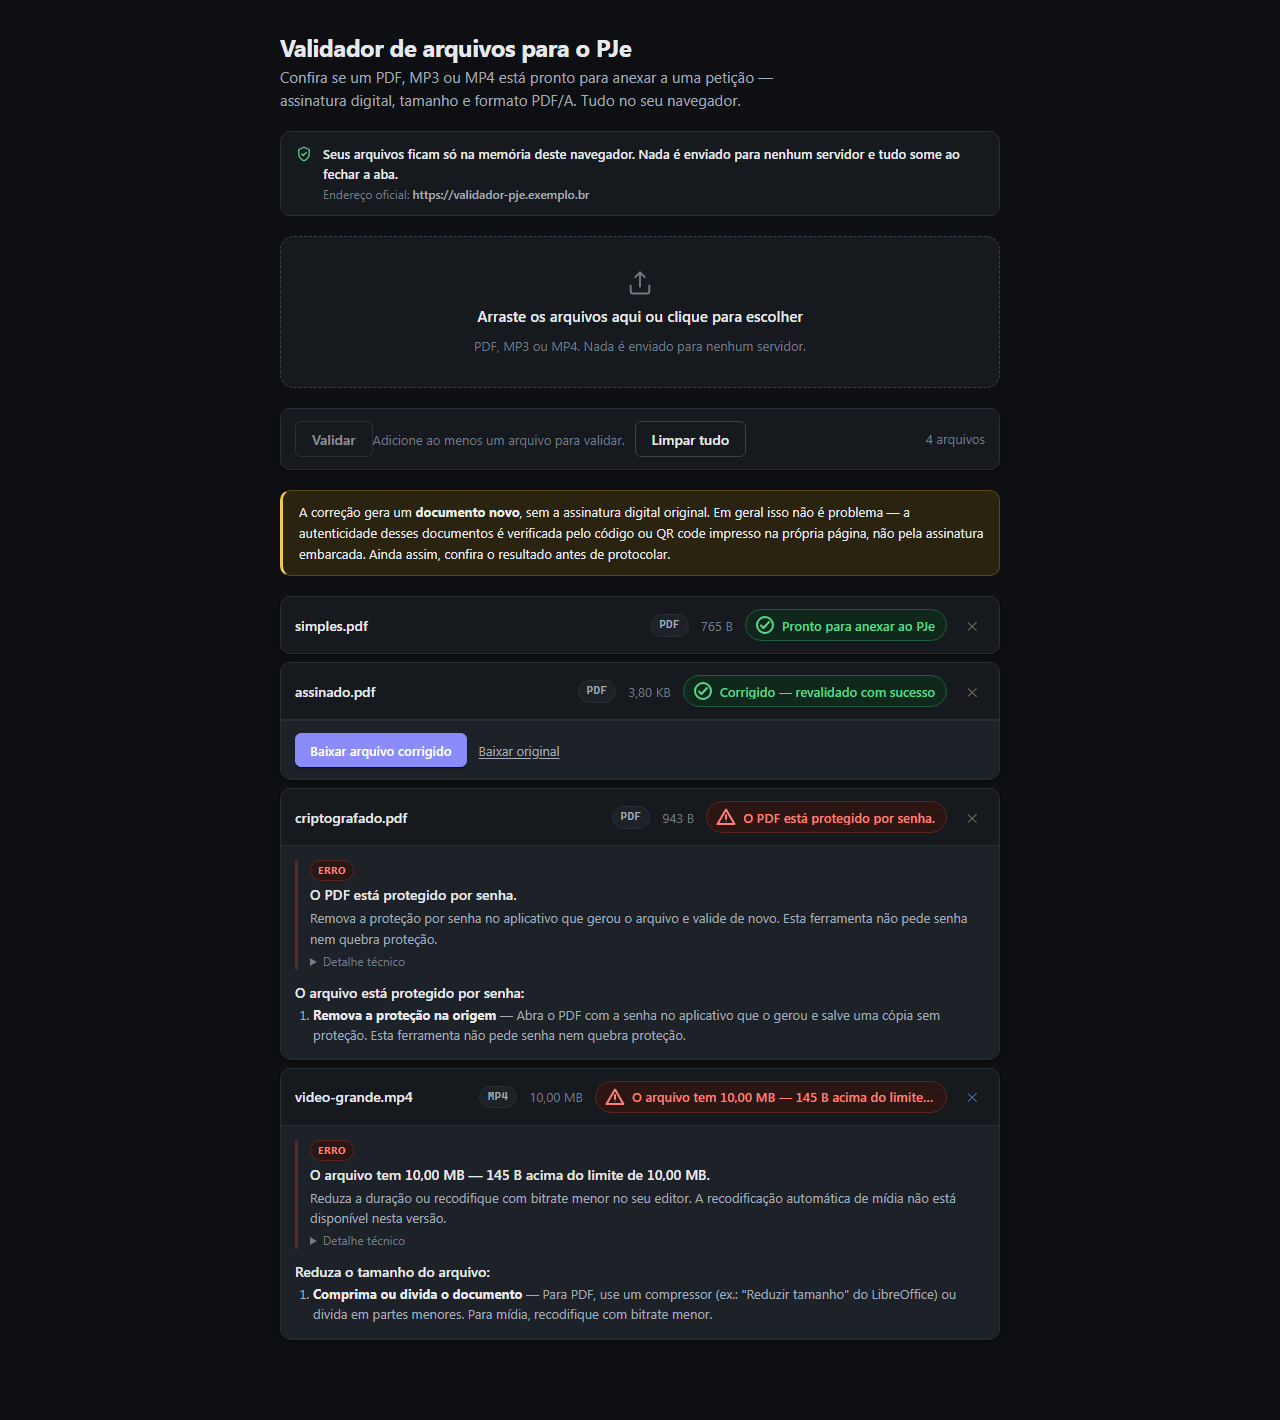
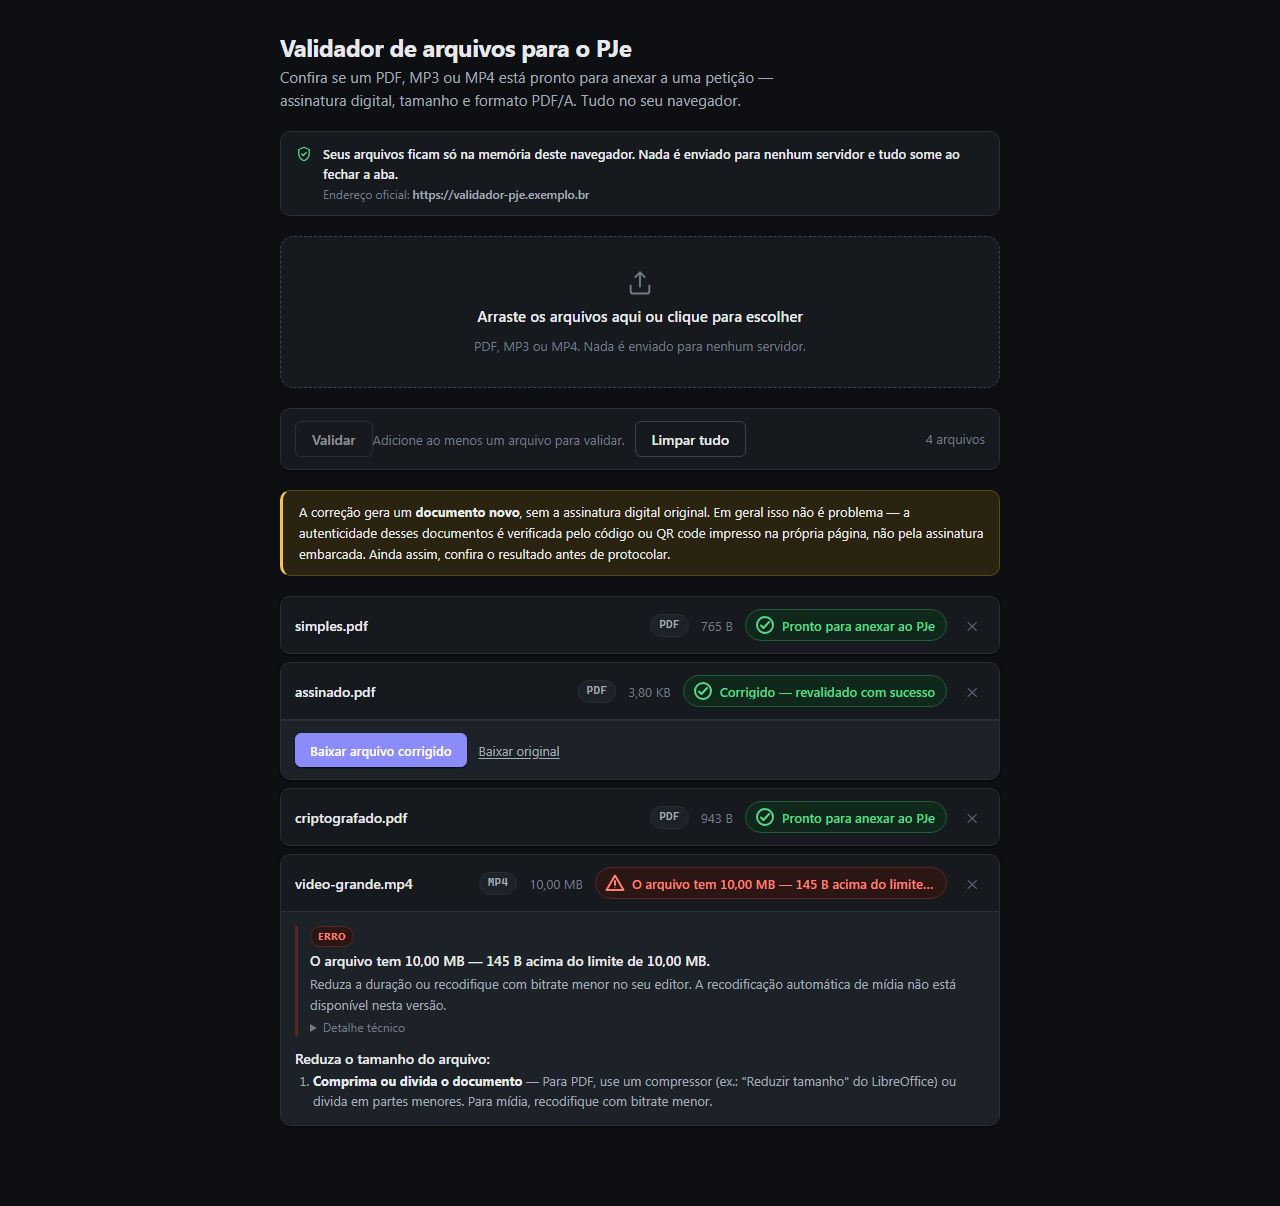
fix: PDF com restrições (CTPS Digital, gov.br) não é mais "protegido por senha"
Documentos oficiais brasileiros costumam ter /Encrypt só com senha de dono /
restrições — abrem sem senha no navegador e no Acrobat. O pdf-lib recusava
qualquer /Encrypt, gerando o falso positivo "O PDF está protegido por senha".

- carregarPdf: em EncryptedPDFError, tenta PDFDocument.load(..., {ignoreEncryption:true}).
  Se a estrutura abre -> { ok:true, encriptado:true }. Só ARQUIVO_CRIPTOGRAFADO
  quando NEM assim abre (senha real / estrutura quebrada).
- validarArquivo: PDFA_CRIPTOGRAFADO saiu do conjunto NAO_CORRIGIVEL — um PDF
  com restrições que abre é corrigível (o Ghostscript remove a cifra ao reescrever).
- corrigirArquivo: só ARQUIVO_CRIPTOGRAFADO bloqueia; PDFA_CRIPTOGRAFADO vai ao worker.
- argumentosGs: -sPDFPassword= (vazio) em todas as estratégias — abre PDFs de
  restrições e a saída já sai sem cifra.
- fixture nova assinado-criptografado.pdf (caso CTPS Digital: assinado + /Encrypt).
- 200 unit + 65 e2e + 7 bundle verdes.

Changed region(s): [[0.2188, 0.2148, 0.7812, 0.7363], [0.2188, 0.767, 0.75, 0.9511], [0.2188, 0.0307, 0.75, 0.1841]]

diff --git a/scripts/gerar-fixtures.ts b/scripts/gerar-fixtures.ts
@@ -104,12 +104,14 @@ function pdfSimples(texto = 'Documento ficticio simples. Sem assinatura. Sem PDF
   return b.build({ root: catalogo });
 }
 
-function pdfAssinado(id: CertAutoassinado, comDocMDP = false): Uint8Array {
+function pdfAssinado(id: CertAutoassinado, opts: { comDocMDP?: boolean; comEncrypt?: boolean } = {}): Uint8Array {
+  const { comDocMDP = false, comEncrypt = false } = opts;
   const b = new PdfBuilder();
   const sigContents = assinaturaCmsHex(id);
   const sig = b.reservar();
   const campo = b.reservar();
   const acroform = b.reservar();
+  const enc = comEncrypt ? b.reservar() : null;
 
   const permsRef = comDocMDP ? b.reservar() : null;
   const catalogoExtra =
@@ -139,7 +141,22 @@ function pdfAssinado(id: CertAutoassinado, comDocMDP = false): Uint8Array {
       `<< /DocMDP << /Type /TransformParams /P 2 /V /1.2 >> >>`,
     );
   }
-  return b.build({ root: catalogo });
+  if (enc !== null) {
+    b.colocar(
+      enc,
+      `<< /Filter /Standard /V 2 /R 3 /Length 128 /P -3904 ` +
+        `/O <${'41'.repeat(32)}> /U <${'42'.repeat(32)}> >>`,
+    );
+  }
+  return b.build({
+    root: catalogo,
+    ...(enc !== null
+      ? {
+          trailerExtra:
+            `/Encrypt ${enc} 0 R /ID [ <31323334353637383930313233343536> <31323334353637383930313233343536> ]`,
+        }
+      : {}),
+  });
 }
 
 /** PDF limpo (sem AcroForm/assinatura), com o texto exato pedido. Simula o que
@@ -276,7 +293,9 @@ function mp4(payloadMdat: Buffer): Uint8Array {
 
 async function assertCarregaNoPdfLib(nome: string, bytes: Uint8Array): Promise<void> {
   try {
-    await PDFDocument.load(bytes, { updateMetadata: false });
+    // ignoreEncryption: as fixtures com /Encrypt de restrições abrem assim
+    // (é o que `carregarPdf` faz).
+    await PDFDocument.load(bytes, { updateMetadata: false, ignoreEncryption: true });
   } catch (e) {
     throw new Error(`fixture ${nome} deveria carregar no pdf-lib mas falhou: ${(e as Error).message}`);
   }
@@ -295,7 +314,9 @@ export async function gerarTodas(): Promise<Record<string, Uint8Array>> {
       'Documento ficticio COM assinatura digital embarcada (fixture).',
     ),
     'campo-sig-vazio.pdf': pdfCampoSigVazio(),
-    'docmdp.pdf': pdfAssinado(id, true),
+    'docmdp.pdf': pdfAssinado(id, { comDocMDP: true }),
+    // caso real: CTPS Digital — assinado E com /Encrypt de restrições (abre sem senha)
+    'assinado-criptografado.pdf': pdfAssinado(id, { comEncrypt: true }),
     'pdfa-1b.pdf': pdfPdfa(1, 'B'),
     'pdfa-2b-transparencia.pdf': pdfPdfa(2, 'B', { comTransparencia: true }),
     'declara-a1b-sem-oi.pdf': pdfPdfa(1, 'B', { comOutputIntent: false }),
@@ -323,6 +344,7 @@ export async function gerarTodas(): Promise<Record<string, Uint8Array>> {
     'assinado.pdf',
     'assinado-e-sem-pdfa.pdf',
     'assinado-corrigido-ok.pdf',
+    'assinado-criptografado.pdf',
     'campo-sig-vazio.pdf',
     'docmdp.pdf',
     'pdfa-1b.pdf',

diff --git a/src/pdf/estrutura.ts b/src/pdf/estrutura.ts
@@ -10,20 +10,33 @@ import { PDFDocument, EncryptedPDFError } from 'pdf-lib';
  */
 
 export type CargaPdf =
-  | { ok: true; doc: PDFDocument }
+  | { ok: true; doc: PDFDocument; encriptado: boolean }
   | { ok: false; motivo: 'ARQUIVO_CRIPTOGRAFADO' | 'ARQUIVO_CORROMPIDO' };
 
 export async function carregarPdf(bytes: Uint8Array): Promise<CargaPdf> {
   try {
     const doc = await PDFDocument.load(bytes, { updateMetadata: false });
-    return { ok: true, doc };
+    return { ok: true, doc, encriptado: false };
   } catch (e) {
     // O pdf-lib lança EncryptedPDFError, mas o transpile do pacote quebra a
     // cadeia de protótipos e `instanceof` falha em parte dos ambientes — daí o
     // fallback pela mensagem (estável entre versões).
     const msg = e instanceof Error ? e.message : String(e);
-    if (e instanceof EncryptedPDFError || /\bencrypted\b/i.test(msg)) {
-      return { ok: false, motivo: 'ARQUIVO_CRIPTOGRAFADO' };
+    const pareceCripto = e instanceof EncryptedPDFError || /\bencrypted\b/i.test(msg);
+    if (pareceCripto) {
+      // Muitos documentos oficiais (CTPS Digital, gov.br, CNIS) têm /Encrypt só
+      // com senha de dono / restrições e abrem SEM senha. Tenta ignorar a cifra:
+      // se a estrutura abre, o arquivo é utilizável e a correção (Ghostscript)
+      // remove a cifra. Só é "protegido por senha" se nem assim abrir.
+      try {
+        const doc = await PDFDocument.load(bytes, {
+          updateMetadata: false,
+          ignoreEncryption: true,
+        });
+        return { ok: true, doc, encriptado: true };
+      } catch {
+        return { ok: false, motivo: 'ARQUIVO_CRIPTOGRAFADO' };
+      }
     }
     return { ok: false, motivo: 'ARQUIVO_CORROMPIDO' };
   }

diff --git a/tests/e2e/correcao.spec.ts b/tests/e2e/correcao.spec.ts
@@ -29,11 +29,20 @@ test('assinado → Tentar corrigir → corrigido, com download (motor de teste)'
 // O fluxo "corrigido" com motor REAL (Ghostscript-WASM) vive em
 // correcao-real.spec.ts; aqui, o motor de teste (?e2e=1) dá determinismo à UI.
 
-test('PDF criptografado → nao_corrigivel, sem botão corrigir', async ({ page }) => {
+test('PDF com /Encrypt de restrições → validado sem erro de senha', async ({ page }) => {
   await validar(page, 'criptografado.pdf');
   const linha = page.getByRole('listitem', { name: 'criptografado.pdf' });
-  await expect(linha.getByText(/protegido por senha/i).first()).toBeVisible();
-  await expect(linha.getByRole('button', { name: /tentar corrigir/i })).toHaveCount(0);
+  await expect(linha.getByText('Pronto para anexar ao PJe')).toBeVisible();
+  await expect(linha.getByText(/protegido por senha/i)).toHaveCount(0);
+});
+
+test('PDF assinado E criptografado → Tentar corrigir → corrigido (motor de teste)', async ({ page }) => {
+  await page.goto('/?e2e=1');
+  await page.getByLabel(/selecionar arquivos/i).setInputFiles(fx('assinado-criptografado.pdf'));
+  await page.getByRole('button', { name: /^validar$/i }).click();
+  const linha = page.getByRole('listitem', { name: 'assinado-criptografado.pdf' });
+  await linha.getByRole('button', { name: /tentar corrigir/i }).click();
+  await expect(linha.getByText('Corrigido — revalidado com sucesso')).toBeVisible({ timeout: 15_000 });
 });
 
 test('MP4 acima do limite → sem correção automática, só orientação (decisão P2-1)', async ({ page }) => {

diff --git a/tests/e2e/correcao-real.spec.ts b/tests/e2e/correcao-real.spec.ts
@@ -33,6 +33,23 @@ test.describe('motor real (Ghostscript-WASM)', () => {
     );
   });
 
+  test('PDF assinado E criptografado → a correção termina (não trava no /Encrypt)', async ({ page }) => {
+    // A fixture tem /Encrypt sintético (chaves /O /U falsas), que o Ghostscript
+    // real recusa — então aqui o esperado é `correcao_falhou`, não `corrigido`.
+    // O importante: o motor é chamado com -sPDFPassword= e o fluxo NÃO trava.
+    // O caso "abre sem senha e corrige" fica coberto por correcao.spec.ts
+    // (motor de teste) e foi verificado à mão com uma CTPS Digital real.
+    test.setTimeout(180_000);
+    await page.goto('/');
+    await page.getByLabel(/selecionar arquivos/i).setInputFiles(fx('assinado-criptografado.pdf'));
+    await page.getByRole('button', { name: /^validar$/i }).click();
+    const linha = page.getByRole('listitem', { name: 'assinado-criptografado.pdf' });
+    await linha.getByRole('button', { name: /tentar corrigir/i }).click();
+    await expect(
+      linha.getByText(/Corrigido — revalidado com sucesso|Não foi possível corrigir automaticamente/),
+    ).toBeVisible({ timeout: 150_000 });
+  });
+
   test('sem rede: nenhuma requisição a terceiros durante a correção real', async ({ page }) => {
     test.setTimeout(180_000);
     const externas: string[] = [];

diff --git a/src/correcao/corrigirArquivo.test.ts b/src/correcao/corrigirArquivo.test.ts
@@ -52,7 +52,7 @@ function fabricaComResposta(msgs: DaCorrecao[] | ((m: ParaCorrecao) => DaCorreca
   return f;
 }
 
-test('PDF criptografado -> nao_corrigivel, sem criar worker', async () => {
+test('PDF que exige senha (ARQUIVO_CRIPTOGRAFADO) -> nao_corrigivel, sem criar worker', async () => {
   const fab = fabricaComResposta([]);
   const s = await corrigirArquivo({
     nomeArquivo: 'x.pdf',
@@ -65,6 +65,22 @@ test('PDF criptografado -> nao_corrigivel, sem criar worker', async () => {
   expect(s.estadoDestino).toBe('nao_corrigivel');
   expect(s.orientacao).toMatch(/protegido por senha/i);
   expect(fab.criados).toBe(0);
+});
+
+test('PDF com restrições (PDFA_CRIPTOGRAFADO, abre sem senha) -> vai para o worker', async () => {
+  const fab = fabricaComResposta([
+    { tipo: 'resultado', resultado: resultadoOk, bufferCorrigido: new Uint8Array([9]).buffer },
+  ]);
+  const s = await corrigirArquivo({
+    nomeArquivo: 'ctps.pdf',
+    tipo: 'application/pdf',
+    bytes: buf(),
+    ocorrencias: [oc('ASSINATURA_PRESENTE'), oc('PDFA_CRIPTOGRAFADO')],
+    cb,
+    fabricaWorker: fab,
+  });
+  expect(s.estadoDestino).toBe('corrigido');
+  expect(fab.criados).toBe(1);
 });
 
 test('MP4 -> nao_corrigivel com orientação de mídia, sem worker', async () => {

diff --git a/src/validadores/validarArquivo.test.ts b/src/validadores/validarArquivo.test.ts
@@ -46,10 +46,19 @@ describe('spec §14.1', () => {
     expect(acima.apto).toBe(false);
   });
 
-  test('PDF com senha -> ARQUIVO_CRIPTOGRAFADO, corrigivel:false', async () => {
+  test('PDF com /Encrypt que abre (restrições) -> NÃO é ARQUIVO_CRIPTOGRAFADO', async () => {
     const r = await val('criptografado.pdf');
-    expect(cod(r)).toContain('ARQUIVO_CRIPTOGRAFADO');
-    expect(r.corrigivel).toBe(false);
+    expect(cod(r)).not.toContain('ARQUIVO_CRIPTOGRAFADO');
+    // sem assinatura, só avisos de PDF/A -> apto
+    expect(r.apto).toBe(true);
+  });
+
+  test('PDF assinado E criptografado (CTPS Digital) -> inapto, corrigível', async () => {
+    const r = await val('assinado-criptografado.pdf');
+    expect(cod(r)).toContain('ASSINATURA_PRESENTE');
+    expect(cod(r)).not.toContain('ARQUIVO_CRIPTOGRAFADO');
+    expect(r.apto).toBe(false);
+    expect(r.corrigivel).toBe(true);
   });
 
   test('.exe renomeado -> FORMATO_NAO_SUPORTADO', async () => {

diff --git a/src/pdf/estrutura.test.ts b/src/pdf/estrutura.test.ts
@@ -12,9 +12,16 @@ describe('carregarPdf', () => {
     expect(r.ok).toBe(true);
   });
 
-  test('PDF com /Encrypt -> ARQUIVO_CRIPTOGRAFADO', async () => {
+  test('PDF com /Encrypt que abre (restrições) -> ok, encriptado:true', async () => {
     const r = await carregarPdf(fx['criptografado.pdf']!);
-    expect(r).toEqual({ ok: false, motivo: 'ARQUIVO_CRIPTOGRAFADO' });
+    expect(r.ok).toBe(true);
+    if (r.ok) expect(r.encriptado).toBe(true);
+  });
+
+  test('bytes lixo com "encrypted" na mensagem -> ARQUIVO_CRIPTOGRAFADO', async () => {
+    // pdf-lib não abre nem ignorando a cifra
+    const r = await carregarPdf(new Uint8Array([0x25, 0x50, 0x44, 0x46, 0x2d, 0, 1, 2, 3]));
+    expect(r.ok).toBe(false);
   });
 
   test('bytes lixo -> ARQUIVO_CORROMPIDO', async () => {

diff --git a/src/validadores/validarArquivo.ts b/src/validadores/validarArquivo.ts
@@ -10,12 +10,10 @@ export interface OpcoesValidacao {
   config?: ConfigValidacao;
 }
 
-const NAO_CORRIGIVEL = new Set([
-  'ARQUIVO_CRIPTOGRAFADO',
-  'ARQUIVO_CORROMPIDO',
-  'FORMATO_NAO_SUPORTADO',
-  'PDFA_CRIPTOGRAFADO',
-]);
+// PDFA_CRIPTOGRAFADO NÃO entra aqui: um PDF com restrições que abre sem senha é
+// corrigível (o Ghostscript remove a cifra ao reescrever). Só um arquivo que
+// não abre de jeito nenhum (ARQUIVO_CRIPTOGRAFADO) é não corrigível.
+const NAO_CORRIGIVEL = new Set(['ARQUIVO_CRIPTOGRAFADO', 'ARQUIVO_CORROMPIDO', 'FORMATO_NAO_SUPORTADO']);
 
 export async function validarArquivo(
   nomeArquivo: string,

diff --git a/src/correcao/corrigirArquivo.ts b/src/correcao/corrigirArquivo.ts
@@ -56,7 +56,9 @@ export async function corrigirArquivo(params: {
 
   const cod = new Set(ocorrencias.map((o) => o.codigo));
 
-  if (cod.has('ARQUIVO_CRIPTOGRAFADO') || cod.has('PDFA_CRIPTOGRAFADO')) {
+  // PDFA_CRIPTOGRAFADO (restrições, abre sem senha) É corrigível: o Ghostscript
+  // remove a cifra ao reescrever. Só ARQUIVO_CRIPTOGRAFADO (não abre) bloqueia.
+  if (cod.has('ARQUIVO_CRIPTOGRAFADO')) {
     return {
       estadoDestino: 'nao_corrigivel',
       resultado: { ...RESULTADO_VAZIO },

diff --git a/src/correcao/argumentosGs.ts b/src/correcao/argumentosGs.ts
@@ -45,7 +45,9 @@ export function argumentosGs(params: {
   nivel: NivelCompressao;
 }): string[] {
   const { estrategia, nivel } = params;
-  const base = ['-dNOPAUSE', '-dBATCH', '-dQUIET'];
+  // -sPDFPassword= (vazio): abre PDFs criptografados só com senha de dono /
+  // restrições (CTPS Digital, gov.br). A reescrita já sai sem cifra.
+  const base = ['-dNOPAUSE', '-dBATCH', '-dQUIET', '-sPDFPassword='];
 
   if (estrategia === 'rasterizado') {
     return [

diff --git a/scripts/gerar-fixtures.test.ts b/scripts/gerar-fixtures.test.ts
@@ -15,6 +15,7 @@ test('gera todas as fixtures esperadas', () => {
     'assinado.pdf',
     'assinado-e-sem-pdfa.pdf',
     'assinado-corrigido-ok.pdf',
+    'assinado-criptografado.pdf',
     'campo-sig-vazio.pdf',
     'docmdp.pdf',
     'pdfa-1b.pdf',
